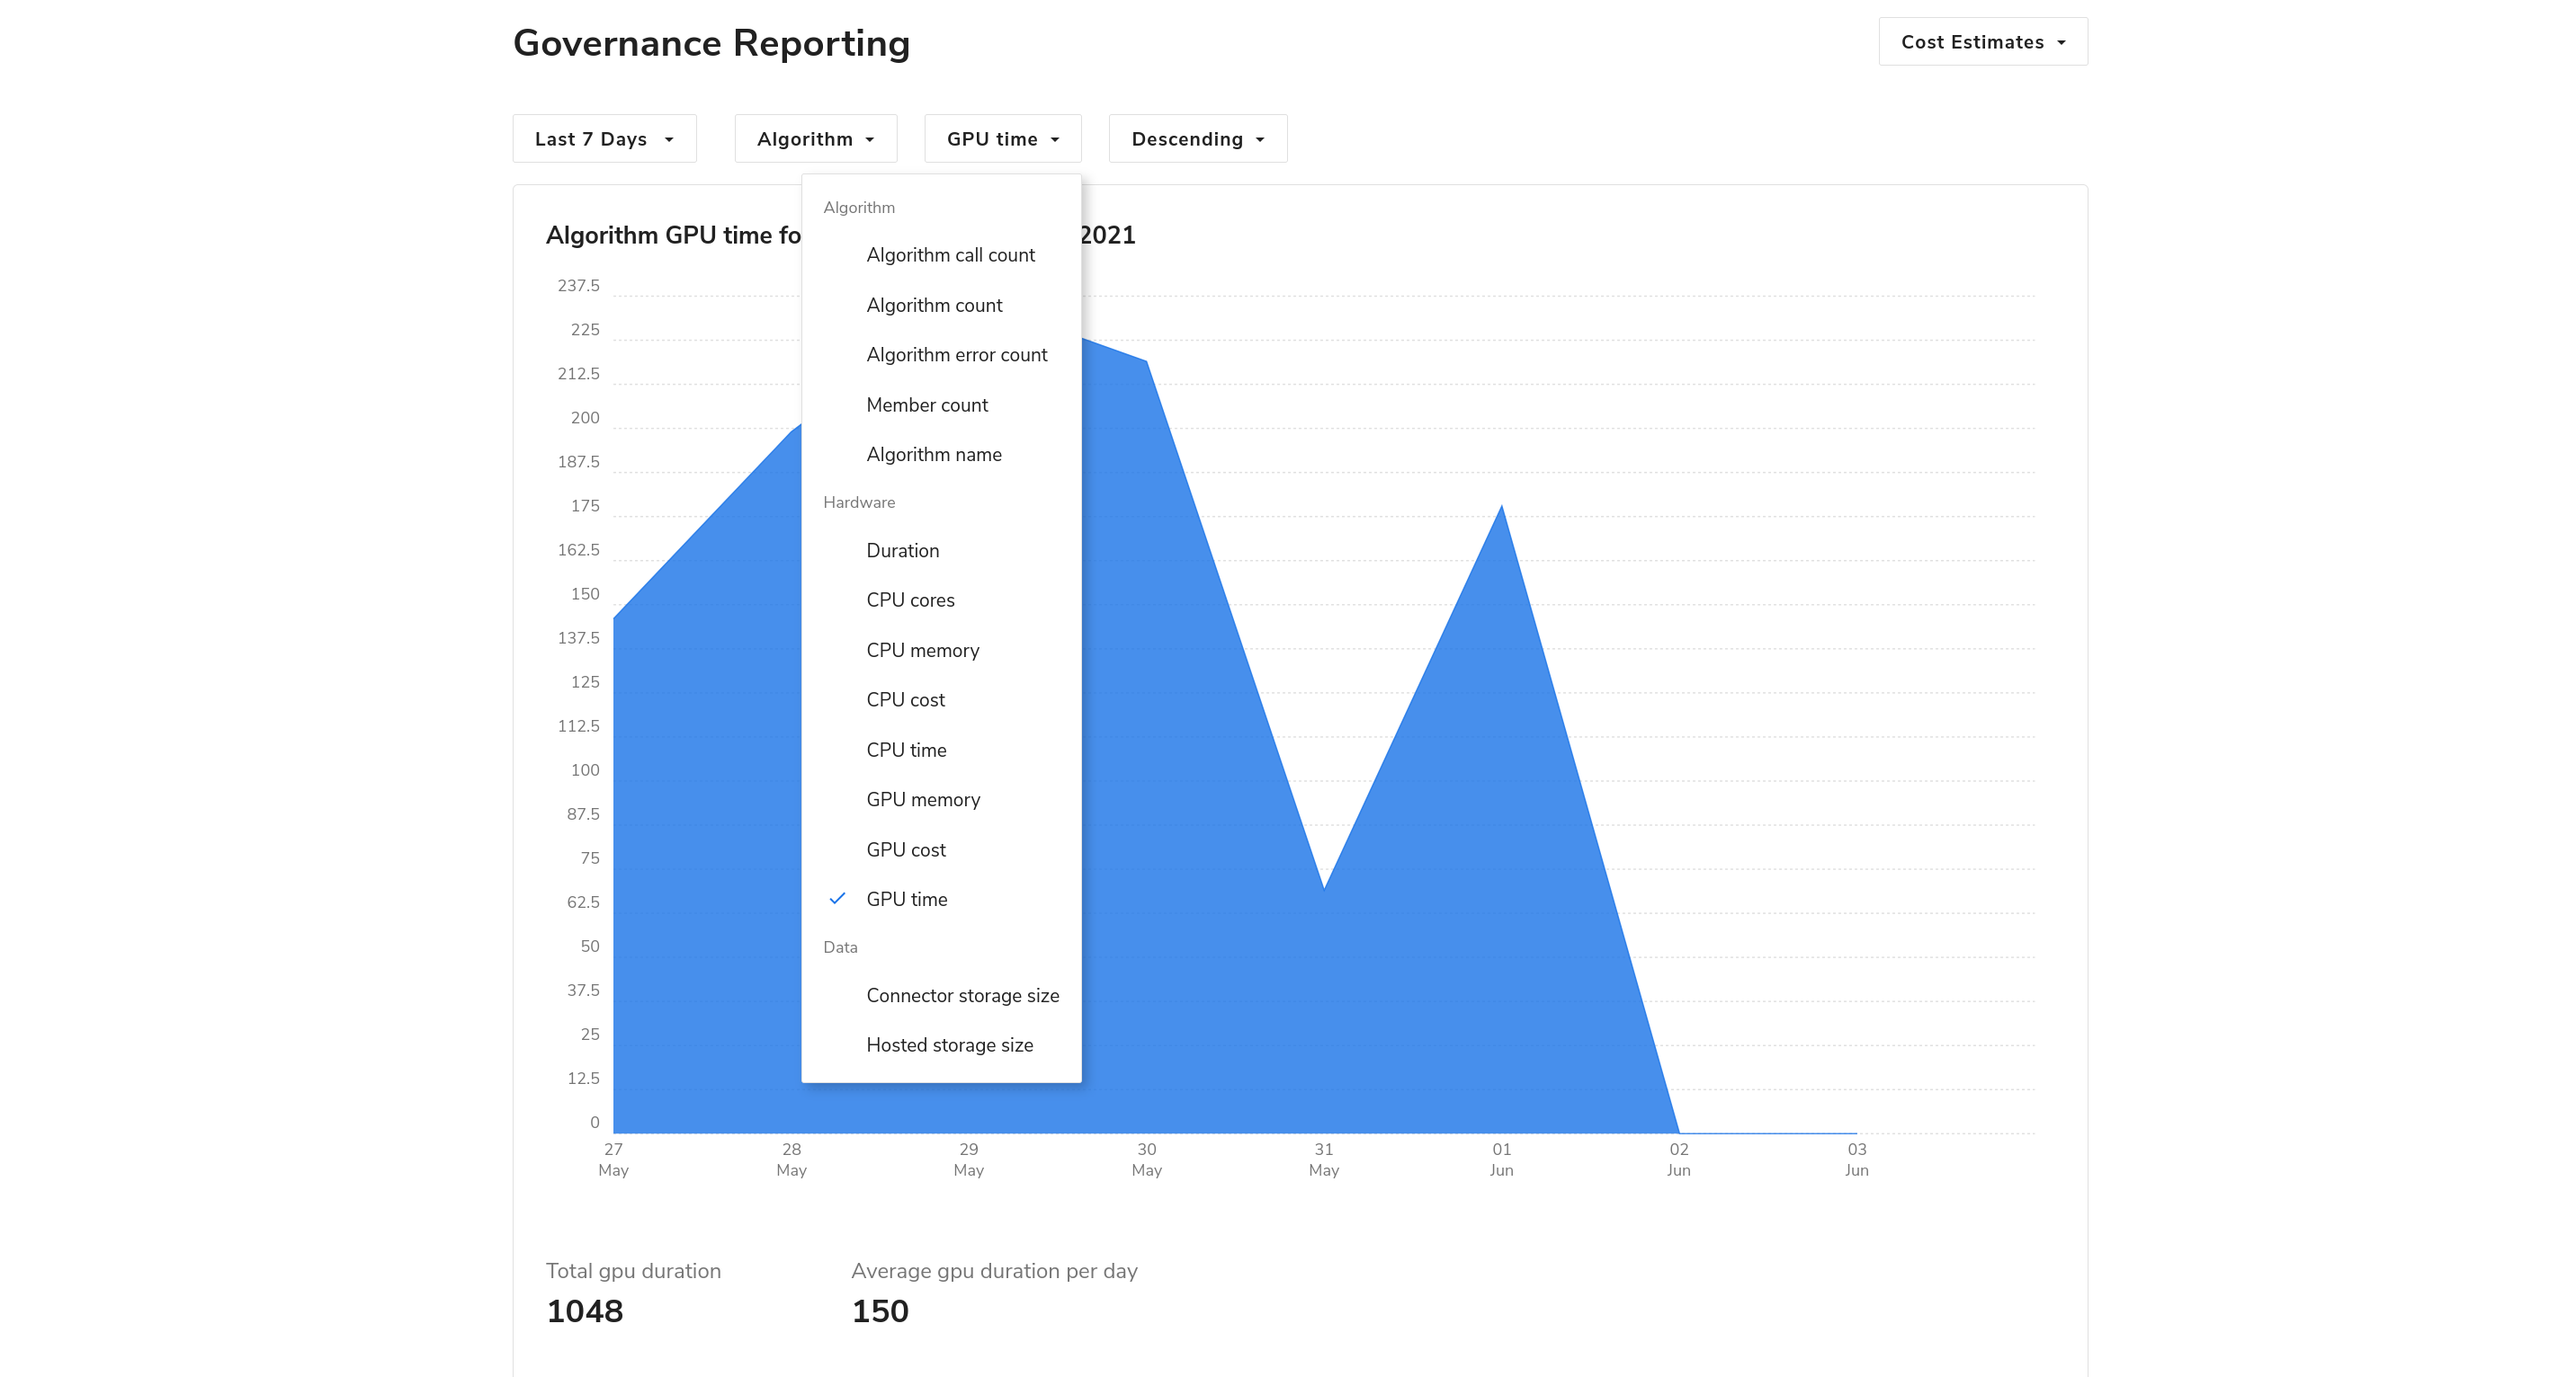
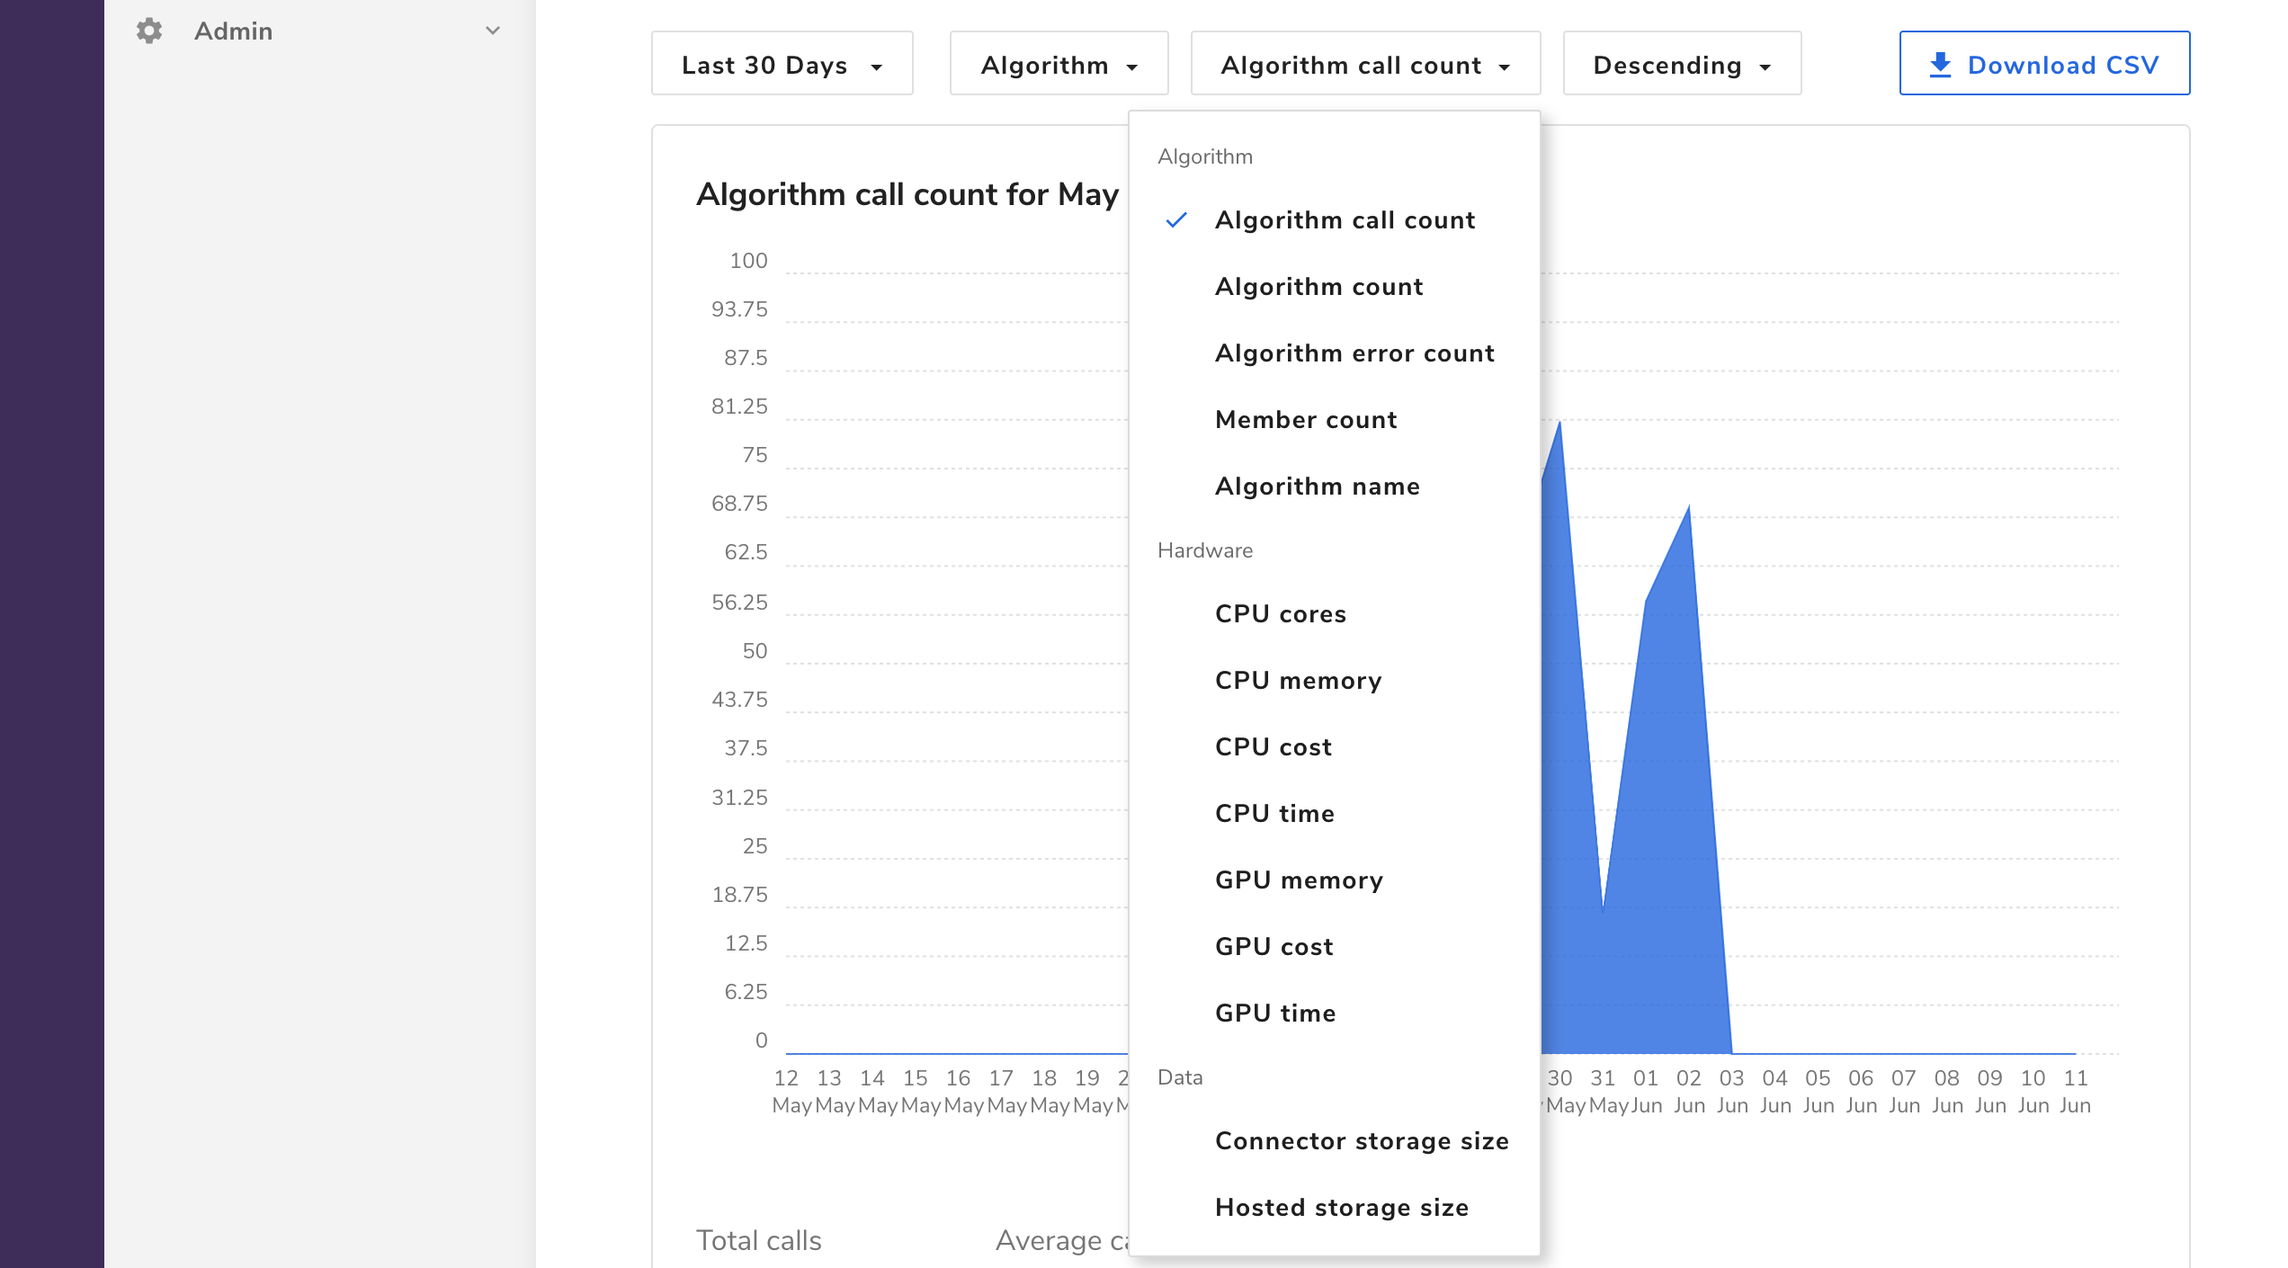
add images, add sections for different reporting levels

diff --git a/_pages/platform/advanced-governance-reporting.md b/_pages/platform/advanced-governance-reporting.md
@@ -1,5 +1,5 @@
 ---
-categories: [platform]
+categories: basics
 excerpt: "Gain insight into platform usage and enhance ML governance with Algorithmia's advanced reporting capabilities"
 excerpt-short: "Algorithmia advanced reporting for governance"
 layout: article
@@ -24,7 +24,7 @@ This feature is only available to users on [Algorithmia Enterprise](/enterprise)
 
 ## Metrics
 
-Governance reports contain both historical and aggregate data. Historical data is a roll-up from a time window of algorithm executions, while aggregate data represents a snapshot from the time the report is generated. The following metrics are displayed in governance reports:
+Governance reports contain both historical and aggregate data. Historical data is a roll-up from a time window of algorithm executions, while aggregate data represents a snapshot from the time the report is generated. The following metrics are available in governance reports:
 
 Historical data
 - Algorithmia-hosted storage size (MiB)
@@ -47,26 +47,34 @@ Aggregate data (aggregated at the organization level)
 
 ## Permissions
 
-The governance reporting feature is available to cluster admins and organization admins. In order for cost information to be estimated, a cluster admin must first [set the expected resource cost rates](https://training.algorithmia.com/exploring-the-admin-panel/836479#setting-cost-rates). If the cost rates haven't been set, all estimated costs will default to 0.
+The governance reporting feature is available to cluster admins and organization admins. In order for cost information to be estimated, a cluster admin must first [set expected resource cost rates](https://training.algorithmia.com/exploring-the-admin-panel/836479#setting-cost-rates). If the cost rates haven't been set, all estimated costs will default to 0.
 
 ### Cluster admin
 
-Cluster admins can view all resource consumption data captured within the platform. For more details, see the [cluster admin docs](https://training.algorithmia.com/exploring-the-admin-panel/836479).
+Cluster admins can view all resource consumption data captured within the platform, grouped by organization, account, and algorithm. For more details, see the [cluster admin docs](https://training.algorithmia.com/exploring-the-admin-panel/836479).
 
 ### Organization admin
 
-Organization admins can view information for their current organization. Information can be viewed for the organization as a whole or grouped by organization-owned algorithms or member accounts as needed.
+From an [organization's profile]({{site.baseurl}}/platform/organizations), organization admins can view resource consumption data for organizations for which they're an admin, for members of those organizations, and for algorithms owned by those organizations.
 
-Each metric listed above can be visualized by selecting it in the third dropdown.
+#### Organization-level reporting
 
-![Org admin page](/developers/images/post_images/advanced_reporting/governance_reporting_org_report.png)
+At the organization level, data can be grouped by organization-owned algorithm or member account as needed.
 
-All metrics are also displayed in tabular form below the plot, ordered by the selected metric from the dropdown, in order to help you understand resource usage within a specified time period.
+![Org admin org report](/developers/images/post_images/advanced_reporting/governance_reporting_org_report.png)
 
-![Org admin tabular data](/developers/images/post_images/advanced_reporting/governance_reporting_tabular.png)
+Each metric listed above can be visualized by selecting it in the third dropdown, as shown above under [Metrics](#metrics). All metrics are also displayed in tabular form below the plot, ordered by the selected metric, in order to help you understand resource usage within a specified time period.
 
-#### Algorithm details
+![Org admin tabular data](/developers/images/post_images/advanced_reporting/governance_reporting_tabular_report.png)
 
-Organization admins can also view information about usage for a specific version of an algorithm owned by their organization. Algorithm usage metrics can be viewed at the organization level or grouped by the individual accounts calling the algorithm.
+#### Account-level reporting
 
-![Algorithm details page](/developers/images/post_images/advanced_reporting/governance_reporting_algorithm_report.png)
+Organization admins can navigate to the [account profile]({{site.baseurl}}/platform/account-profile/) for an account that's a member of the organization to that specific account's resource usage. At the account level, data can be grouped by organization or algorithm.
+
+![Org admin account report](/developers/images/post_images/advanced_reporting/governance_reporting_account_report.png)
+
+#### Algorithm-level reporting
+
+Organization admins can also navigate to the [algorithm profile]({{site.baseurl}}/platform/algorithm-profile/) for an algorithm owned by their org to view information about usage for that specific algorithm. Algorithm usage metrics can be displayed at the organization level or grouped by the individual organization member account calling the algorithm.
+
+![Org admin algorithm report](/developers/images/post_images/advanced_reporting/governance_reporting_algorithm_report.png)
